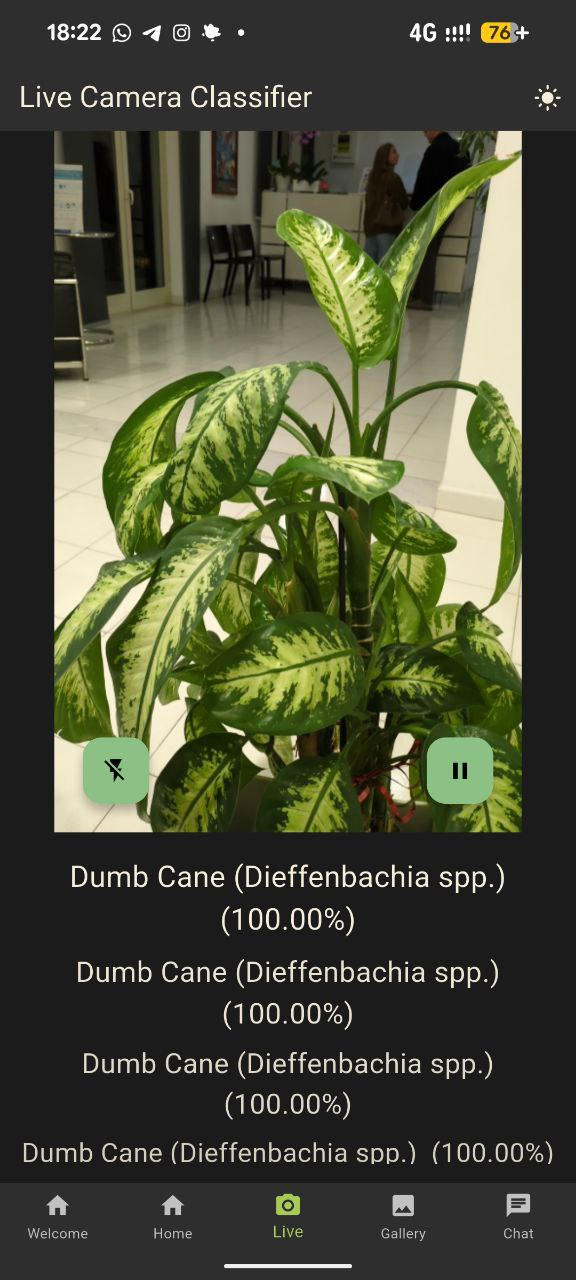
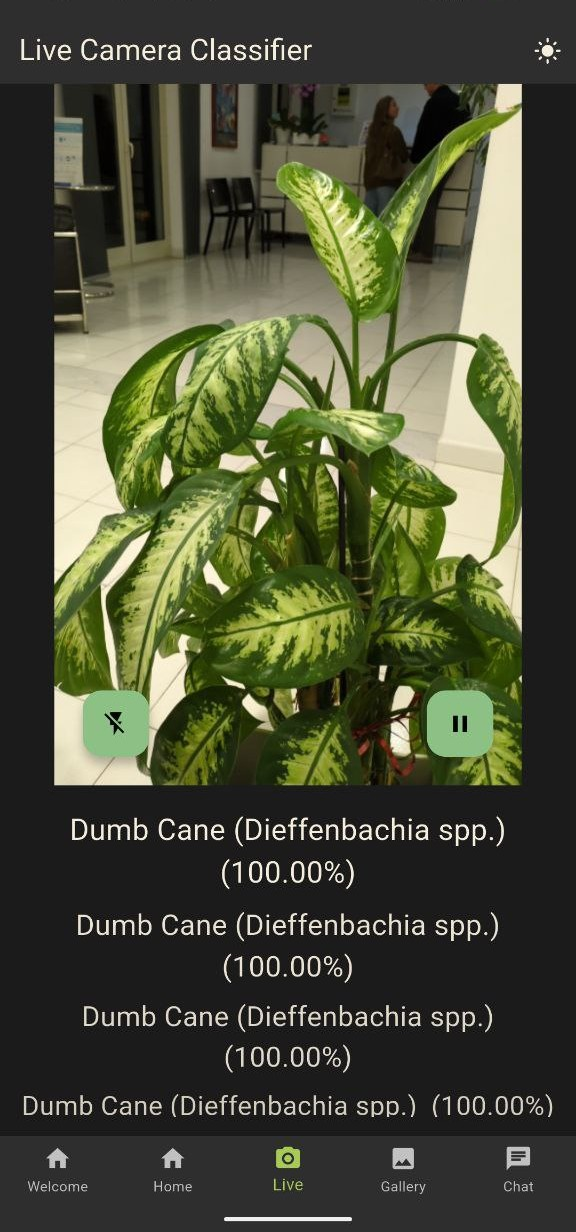
updated images and readme

diff --git a/README.md b/README.md
@@ -6,6 +6,8 @@ An AI/ML powered plant monitoring and care application built with Flutter.
 
 - At [Plant DB Bot Repo](https://github.com/MikeCheek/plant-db-bot) there's the code for expanding the plant database in a telegram bot.
 
+- At [Kaggle Notebook](https://www.kaggle.com/code/michelepulvirenti/house-plant-recognition-using-efficientnetv2b0) there's the notebook used to train the plant species classifier.
+
 _Disclaimer: This project is currently in its early stages of development. Features and functionalities are subject to change._
 
 ## Features
@@ -14,10 +16,10 @@ _Disclaimer: This project is currently in its early stages of development. Featu
 - [x] ML plant classifier (TensorFlow Lite model)
 - [x] Live camera classifier (real-time predictions)
 - [x] AI agent chatbot (GuardAI)
-- [ ] User authentication (accounts, secure sign-in)
+- [x] User authentication (accounts, secure sign-in)
 - [ ] ML plant disease classifier (detect diseases & severity)
-- [ ] Working AI Agent with tools (planner, web/tool access)
-- [ ] My Garden management (add/remove plants, metadata)
+- [x] Working AI Agent with tools (planner, web/tool access)
+- [x] My Garden management (add/remove plants, metadata)
 - [ ] Notification reminders (watering, fertilizing, care tips)
 - [ ] Garbage recycling helper (identify & sort waste)
 
@@ -37,15 +39,32 @@ The notebook used to train the model can be found on my kaggle profile [here](ht
 
 |   Metric | Training | Validation |
 | -------: | -------: | ---------: |
-| Accuracy |   0.9379 |     0.9165 |
-|     Loss |   0.1965 |     0.3731 |
+| Accuracy |      94% |        92% |
+|     Loss |      20% |        37% |
 
-Below are some example predictions made by the app:
+### Below are some example predictions made by the app:
 
 <div style="display:flex; gap:1rem; align-items:flex-start; flex-wrap:wrap;">
   <figure style="display:flex; flex-direction:column; align-items:center; margin:0;">
-    <img src="screenshots/dumbcane.jpg" alt="Ficus elastica prediction" style="width:180px; height:auto; border-radius:6px;">
+    <img src="screenshots/poinsettia.jpg" alt="Poinsettia prediction" style="width:180px; height:auto; border-radius:6px;">
   </figure>
+
+  <figure style="display:flex; flex-direction:column; align-items:center; margin:0;">
+    <img src="screenshots/sanseviera.jpg" alt="Sansevieria prediction" style="width:180px; height:auto; border-radius:6px;">
+  </figure>
+
+  <figure style="display:flex; flex-direction:column; align-items:center; margin:0;">
+    <img src="screenshots/schefflera.jpg" alt="Schefflera prediction" style="width:180px; height:auto; border-radius:6px;">
+  </figure>
+
+  <figure style="display:flex; flex-direction:column; align-items:center; margin:0;">
+    <img src="screenshots/aloevera.jpg" alt="Aloe Vera prediction" style="width:180px; height:auto; border-radius:6px;">
+  </figure>
+</div>
+
+Here there are more example made with old UI design:
+
+<div style="display:flex; gap:1rem; align-items:flex-start; flex-wrap:wrap;">
 
   <figure style="display:flex; flex-direction:column; align-items:center; margin:0;">
     <img src="screenshots/monsteradeliciosa.jpg" alt="Monstera deliciosa prediction" style="width:180px; height:auto; border-radius:6px;">
@@ -55,19 +74,28 @@ Below are some example predictions made by the app:
     <img src="screenshots/orchid.jpg" alt="Orchid prediction" style="width:180px; height:auto; border-radius:6px;">
   </figure>
 
-  <figure style="display:flex; flex-direction:column; align-items:center; margin:0;">
-    <img src="screenshots/sanseviera.jpg" alt="Sansevieria prediction" style="width:180px; height:auto; border-radius:6px;">
-  </figure>
-
    <figure style="display:flex; flex-direction:column; align-items:center; margin:0;">
     <img src="screenshots/ficuselastica.jpg" alt="Ficus elastica prediction" style="width:180px; height:auto; border-radius:6px;">
   </figure>
-</div>
 
 ## GuardAI - AI Agent for Plant Care
 
 <figure style="display:flex; flex-direction:column; align-items:center; margin:0;">
-    <img src="screenshots/guardai.jpg" alt="GuardAI prediction" style="width:180px; height:auto; border-radius:6px;">
+    <img src="screenshots/agentthinking.jpg" alt="GuardAI thinking" style="width:180px; height:auto; border-radius:6px;">
+  </figure>
+
+<figure style="display:flex; flex-direction:column; align-items:center; margin:0;">
+    <img src="screenshots/agentanswer.jpg" alt="GuardAI response" style="width:180px; height:auto; border-radius:6px;">
+  </figure>
+
+## Garden Management
+
+<figure style="display:flex; flex-direction:column; align-items:center; margin:0;">
+    <img src="screenshots/gardens.jpg" alt="My Gardens screen" style="width:180px; height:auto; border-radius:6px;">
+  </figure>
+
+<figure style="display:flex; flex-direction:column; align-items:center; margin:0;">
+    <img src="screenshots/garden.jpg" alt="Garden details screen" style="width:180px; height:auto; border-radius:6px;">
   </figure>
 
 ## Running the App
